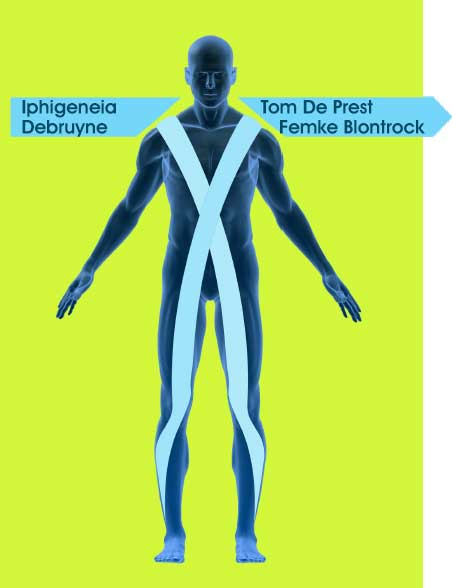
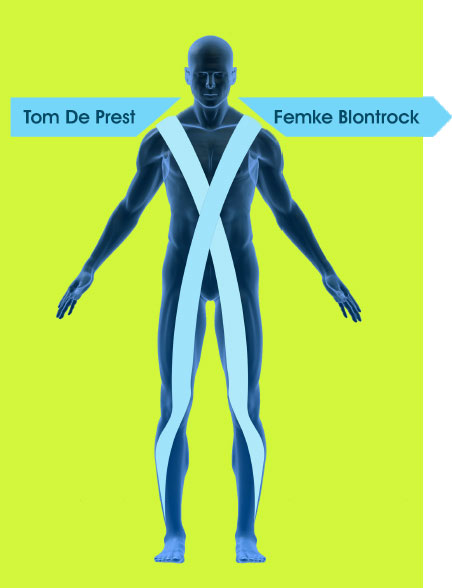
4/4/2016

diff --git a/team.html b/team.html
@@ -2,7 +2,7 @@
 <html data-wf-site="526d39ed78d6bf427e0004e6">
 	<head>
 		<meta charset="utf-8">
-		<title>Kinepuntbrugge team: Tom De Prest, Femke Blontrock, Iphigeneia Debruyne, Thibault De Jaeger</title>
+		<title>Kinepuntbrugge team: Tom De Prest, Femke Blontrock, Esther Deseins, Thibault De Jaeger</title>
 		<meta name="description" content="Kinepuntbrugge bestaat uit een team van gediplomeerde deskundigen. Onze specialisaties: 
 			  Manuele Therapie, Sportkinesitherapie, Medical Taping Concept, Methode van Busquet, SCMO, Gymfed Kinesitherapie ">
 		<meta name="keywords" content="Manuele Therapie, Sportkinesitherapie, Medical Taping Concept, Methode van Busquet,
@@ -146,28 +146,23 @@
 							</div>
 						</div>
 						<div class="w-col w-col-3">
-							<img src="images/team_ihpi.png" alt="Iphigeneia Debruyne">
-							<h3 class="name">Iphigeneia <br>Debruyne</h3>
-							<div class="job-title">Manuele Therapie
-								<br>Sportkinesitherapie
-								<br>Medical Taping Concept
-								<br>Methode van Busquet
-								<br>Pre-post Natale
-								<br>Redcord Training<br><br><br></div>
-							<p class="team-text">
-								Als master in de kinesitherapie vervolledigde ik meteen na mijn studies de opleiding 
-								manuele therapie in Gent. Deze postgraduaat spitst zich toe op de manuele technieken 
-								van spieren, zenuwen en gewrichten. Als therapeute richt ik mij op klachten van het 
-								houdings- en bewegingsapparaat. Aan elke behandeling  gaat een klinisch onderzoek 
-								vooraf, gevolgd door een aangepaste manuele behandeling. Om mijn inzicht te verbreden, 
-								verdiep ik mij huidig in de spierkettingen van Busquet. Deze tweejarige internationale 
-								opleiding benadert het lichaam op een holistische manier, waarbij voornamelijk gezocht 
-								wordt naar de oorzaak van een letsel. <br>
-								Tot slot specialiseerde ik me bij in het begeleiden van zwangere vrouwen. Zowel pre- 
-								als postnatale oefeningen helpen het lichaam in conditie te houden, zich voor te 
-								bereiden op de zwangerschap en het herstel van de bevalling te versnellen.	</p>
+							<img src="images/team_ester.png" alt="Esther Deseins">
+							<h3 class="name">Esther<br>Deseins</h3>
+							<div class="job-title">&nbsp;&nbsp;&nbsp;&nbsp;&nbsp;&nbsp;&nbsp;&nbsp;&nbsp;&nbsp;&nbsp;&nbsp;&nbsp;&nbsp;&nbsp;&nbsp;&nbsp;&nbsp;&nbsp;&nbsp;&nbsp;&nbsp;&nbsp;&nbsp;&nbsp;&nbsp;&nbsp;&nbsp;&nbsp;&nbsp;
+								<br>
+								<br>
+								<br>
+								<br>
+								<br><br><br><br></div>
+							<p class="team-text">In 2013 studeerde ik af als master in de revalidatiewetenschappen en kinesitherapie (afstudeerrichting musculoskeletale aandoeningen) aan de Universiteit van Gent. Na mijn studies ben ik mij gaan specialiseren in respiratoire kinesitherapie (ademhalingstherapie). Ik deed de opleidingen van Postiaux en van Chevalier om een beter inzicht te krijgen in de ademhalingsproblemen van baby’s, kinderen en volwassenen en dit zowel chronisch als acuut.
+Tijdens mijn opleiding deed ik de cursus Medical Taping Concept (kinesiotaping). Als keuzevakken koos ik voor Pediatric Rehabilitation en de pediatrische motorische ontwikkeling. Hierdoor kan ik lichte motorische ontwikkelingsstoornissen bij baby’s en kinderen behandelen.
+In september 2016 start ik met de 2-jarige opleiding Sportgerichte Combinatietherapie Manuele therapie en Osteopathie (SCMO). Dit om een nog bredere kennis te hebben over het functioneren of niet-functioneren van het menselijk lichaam. Tevens wil ik mij ook verdiepen in het gebruik van dry-needling.
+Deze opleidingen en interesses geven mij een brede kijk op het totale menselijke lichaam om een op-maat-gemaakte behandeling te kunnen geven.	
+								
+								
+			</p>
 							<div class="social-team">
-								<a class="w-inline-block social-icon" href="mailto:Iphigeneia@kinepuntbrugge.be" target="_blank">
+								<a class="w-inline-block social-icon" href="mailto:ester@kinepuntbrugge.be" target="_blank">
 									<img src="images/email.png" width="32" alt="email.png">
 								</a>
 							</div>

diff --git a/expertise.html b/expertise.html
@@ -440,16 +440,7 @@
 
 					</div>
 				</div>
-				<div class="w-row">
-					<div class="w-col w-col-6">
-						<img src="images/specialisaties_prepostnataal.jpg" alt="pre- en postnatale begeleiding, Iphigeneia Debruyne">
-					</div>
-					<div class="w-col w-col-6">
-						<h3>pre- en postnatale begeleiding</h3>
-						<p>Iphigeneia is gediplomeerde therapeute in prenatale en postnatale begeleiding. Alle problematiek, begeleiding en revalidatie is haar specialiteit.</p>
-						<p>&nbsp;</p><a href="expertise.html">terug</a>
-					</div>
-				</div>
+
 				<div class="w-row">
 					<div class="w-col w-col-6">
 						<img src="images/specialisaties_medtape.gif" alt="medical taping concept, Tom De Prest, Femke Blontrock, Iphigeneia Debruyne">
